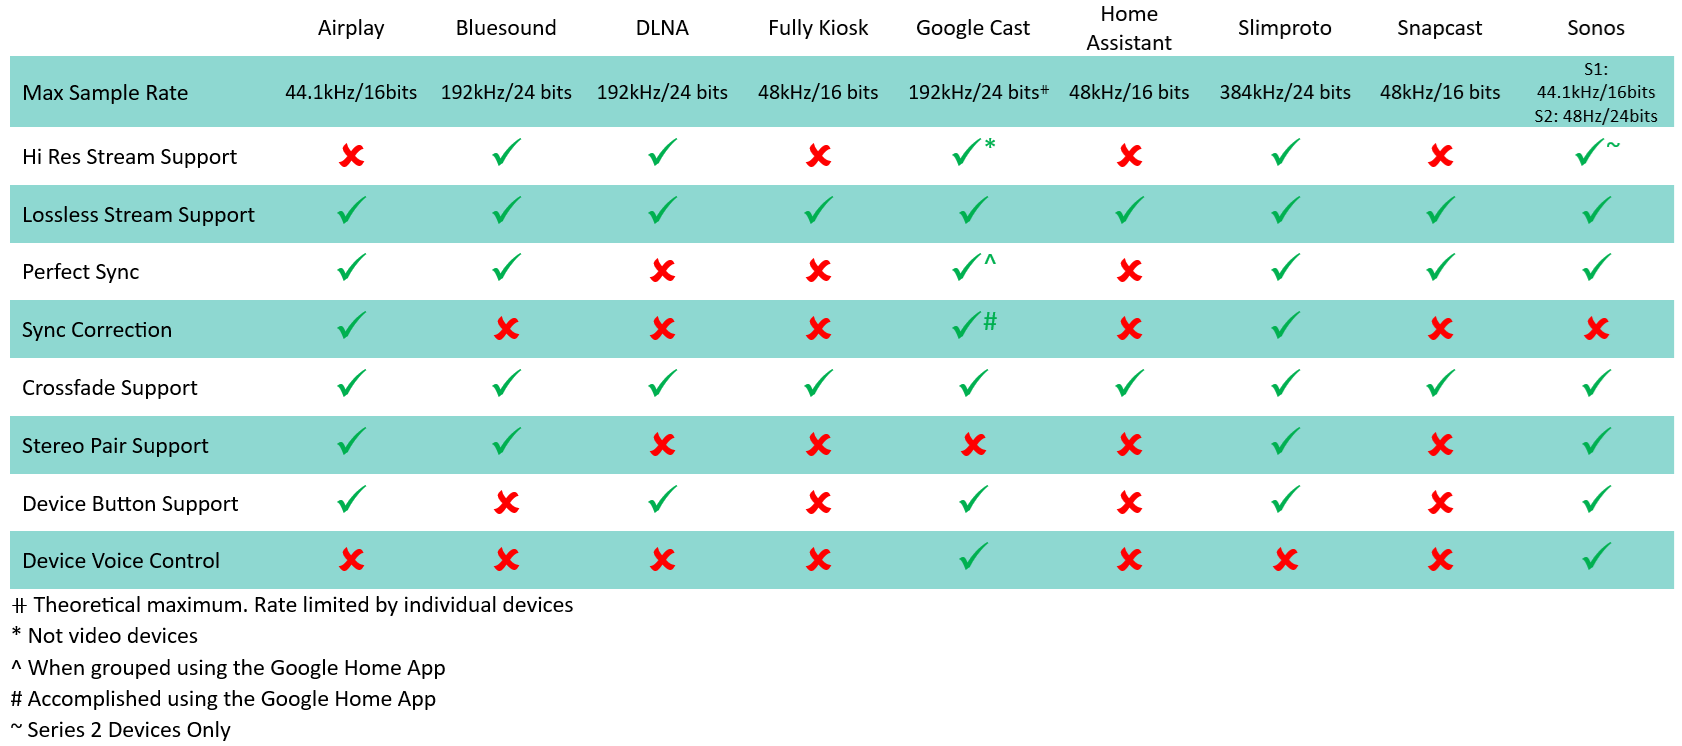
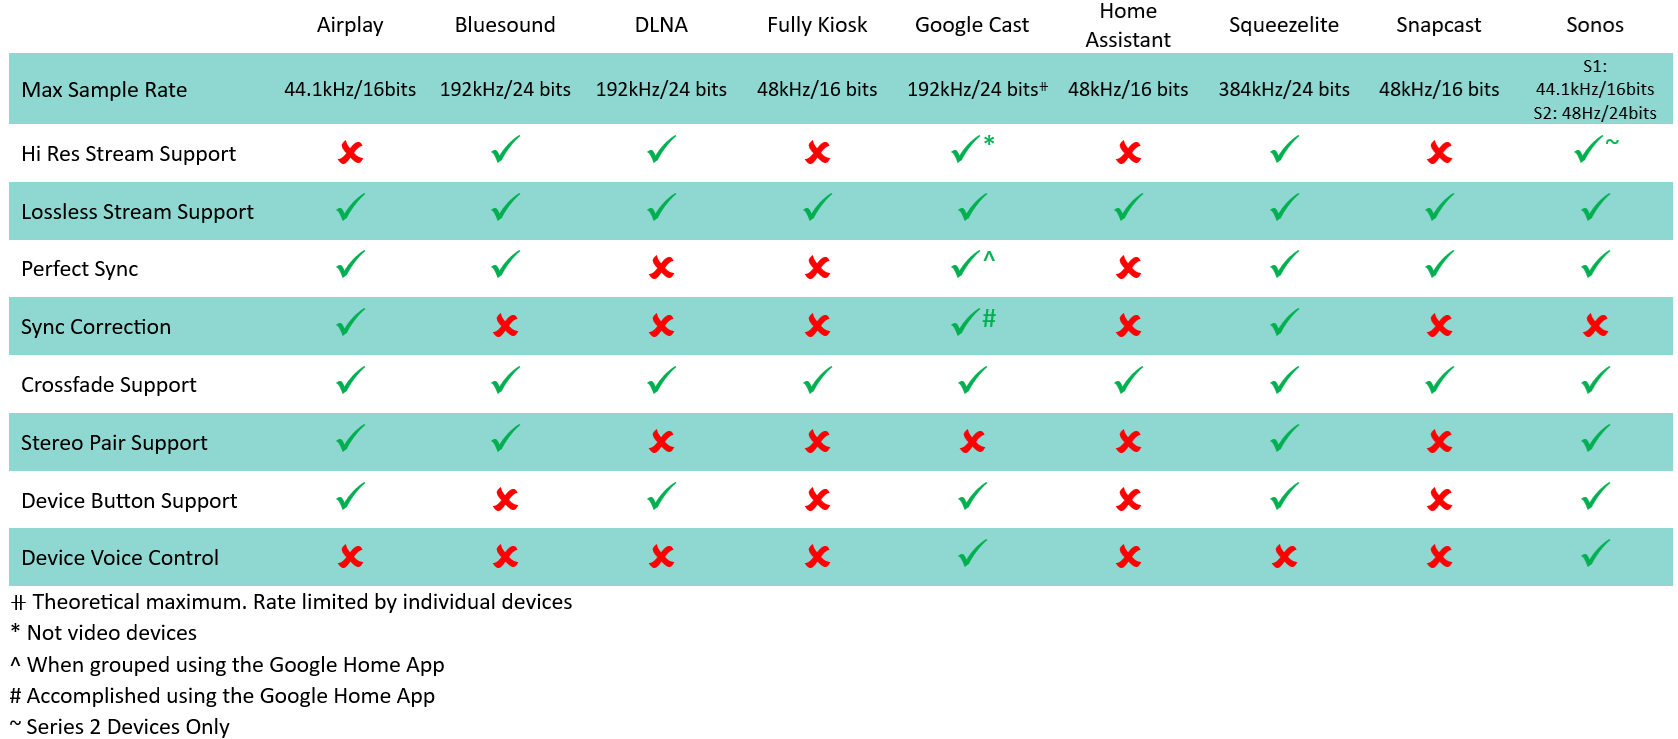
Squeezelite name change (#217)
* Name change

* Squeezelite name change

* Squeezelite name change

* Squeezelite name change

* Squeezelite name change

* Squeezelite name change

* Squeezelite name change

* Squeezelite name change

diff --git a/docs/faq/tech-info.md b/docs/faq/tech-info.md
@@ -34,7 +34,7 @@ The final part in the chain is that MA needs to send the audio to the player. By
 MA has 2 ways of enqueuing tracks to players:
 
 **NATIVE ENQUEUE SUPPORT**
-The player has native enqueue support so we tell it what the next track will be right before the current one ends. This is a special feature that not all players support. Its supported (and by default enabled) for example on Slimproto, Google Cast and Sonos players. Some DLNA players support it but others don't so we offer a player setting to enable it so a user can try and see if the player accepts it. The benefit of this is full support gapless playback and, in the case of Slimproto and Sonos, also crossfade. Full metadata will also be sent to the player which is currently playing.
+The player has native enqueue support so we tell it what the next track will be right before the current one ends. This is a special feature that not all players support. Its supported (and by default enabled) for example on Squeezelite, Google Cast and Sonos players. Some DLNA players support it but others don't so we offer a player setting to enable it so a user can try and see if the player accepts it. The benefit of this is full support gapless playback and, in the case of Squeezelite and Sonos, also crossfade. Full metadata will also be sent to the player which is currently playing.
 
 **FLOW MODE**
 As an alternative to native enqueuing we can also send one stream of audio to the player and let Music Assistant stitch the songs together (with gapless or crossfade). This mode is used by default for Airplay, Snapcast and any mediaplayers you import from Home Assistant, and flow mode will also be used by DLNA and Cast if crossfade gets enabled. The downside of this approach is that most players lose metadata display (on the speaker itself). Some DLNA players however support "icy metadata" which is what we send to inform what is playing. 
@@ -50,9 +50,9 @@ Audio sync between speakers is only possible if there is accurate knowledge of t
 1) Sending timestamped frames to each player - there is one master clock and audio frames are sent to each receiving device in a sync group including the timestamp. So each player will have knowledge when it should play each frame and it can drop or inject frames to keep in sync. This strategy is often used in the proprietary protocols such as Google Cast, Sonos, Roon RAAT, BluOS and even Apple Airplay (RAOP).
 This is by far the best (most precise) sync method because each player is responsible for sending the correct audio frames to the DAC (or digital transport).
 
-2) Server-side corrected sync. Each player is sent the audio stream from the centralized source and then the server keeps track of each player's latency and corrects it by pausing/forwarding, playing faster/slower or injecting frames. This is easier to implement because the only thing needed client-side is accurate progress reporting of the client (how many milliseconds it played) and the server contains all the centralized logic to keep the sync. This is used by, for example, slimproto (squeezebox) and snapcast.
+2) Server-side corrected sync. Each player is sent the audio stream from the centralized source and then the server keeps track of each player's latency and corrects it by pausing/forwarding, playing faster/slower or injecting frames. This is easier to implement because the only thing needed client-side is accurate progress reporting of the client (how many milliseconds it played) and the server contains all the centralized logic to keep the sync. This is used by, for example, Squeezelite and Snapcast.
 
-How well the time synchronisation works depends on multiple factors but often you will find that strategy 1 is superior to strategy 2 and/or strategy 2 needs tweaking to get it right. For instance on snapcast you may hear skipping (small disturbances to the sound while its adjusting) and slimproto works less optimally with wifi based devices due to changing player latency.
+How well the time synchronisation works depends on multiple factors but often you will find that strategy 1 is superior to strategy 2 and/or strategy 2 needs tweaking to get it right. For instance on Snapcast you may hear skipping (small disturbances to the sound while its adjusting) and Squeezelite works less optimally with WiFi based devices due to changing player latency.
 
 RECOMMENDATION: To have the best synced audio experiences of players, try to stick with one ecosystem and, if possible, choose one of the options that implement strategy 1 (proprietary protocol). 
 

diff --git a/docs/player-support/squeezelite.md b/docs/player-support/squeezelite.md
@@ -1,18 +1,18 @@
 # Squeezelite ![Preview image](../assets/icons/slim-icon.svg){ width=70 align=right }
 
-Music Assistant (partly) emulates a Logitech Media Server and has a full implementation of the Slim protocol (aka slimproto).
-This means you can use slimproto software players, which run on almost any hardware, including your own desktop OS and even ESP32 boards, directly with Music Assistant. There is some support for the original Logitech branded Squeezebox hardware players like the Radio and the Duet.
+Music Assistant (partly) emulates a Logitech Media Server and has a full implementation of the Slim Protocol (aka slimproto) in the form of support for [Squeezelite](https://en.wikipedia.org/wiki/Squeezelite) clients.
+This means you can use squeezelite software players, which run on almost any hardware, including your own desktop OS and even ESP32 boards, directly with Music Assistant. There is some support for the original Logitech branded Squeezebox hardware players like the Radio and the Duet.
 
 ## Features
 
-- Slimproto devices are auto detected in Music Assistant
-- Slimproto devices will play in sync
+- Squeezelite devices are auto detected in Music Assistant
+- Squeezelite devices will play in sync
 - Any physical control buttons on the device should be supported as long as [flow mode](../faq/tech-info.md/#track-queueing) is not enabled
 - The player settings allow configuration of stereo pairs of speakers
 
 ## Known Issues / Notes
 
-- The focus of this provider in MA is to support the use of software slimproto clients (e.g. [piCorePlayer](https://www.picoreplayer.org/)). Old Squeezebox hardware is reported to work although there are reported issues with grouping. The MA core team cannot afford to expend resources on making these devices work any better than they do now. PRs to enhance support, however, are welcomed to the [aioslimproto library](https://github.com/home-assistant-libs/aioslimproto) and/or the squeezelite provider in MA
-- Running LMS on the same server as MA with the MA slimproto provider enabled can have undesired effects
+- The focus of this provider in MA is to support the use of software Squeezelite clients (e.g. [piCorePlayer](https://www.picoreplayer.org/)). Old Squeezebox hardware is reported to work although there are reported issues with grouping. The MA core team cannot afford to expend resources on making these devices work any better than they do now. PRs to enhance support, however, are welcomed to the [aioslimproto library](https://github.com/home-assistant-libs/aioslimproto) and/or the squeezelite provider in MA
+- Running LMS on the same server as MA with the MA Squeezelite provider enabled can have undesired effects
 - Make sure that you do not have the "slimproto" integration running in Home Assistant
 - Ordinarily do not use queue flow mode unless using older Squeezebox hardware player that has issues transitioning. Enabling queue flow mode may solve playback issues however it might come with the side effect of disabling actual physical buttons and/or display of metadata on the device itself

diff --git a/docs/audiopipeline.md b/docs/audiopipeline.md
@@ -37,6 +37,6 @@ The view will expand as necessary to show all [grouped players](faq/groups.md). 
 
 A point to note in this example is the orange dot beside the third Output section label. Whilst no quality would have been lost due to the Output Limiter or [the upsampling to 48kHz](https://www.youtube.com/watch?v=tIIK2wuXHuY), the change to the [lossy MP3 codec](https://www.adobe.com/au/creativecloud/video/discover/best-audio-format.html) necessitates the indication that this is now only Low Quality.
 
-When a group of players have the same pipeline then the identical output stages will be collapsed with one player shown followed by a plus sign and the number of other players represented. Clicking on the information icon will expand the list as shown in the following image. Note that in the case of Slimproto or AirPlay a different output pipeline per player is possible, whilst with other player types such as Sonos or Snapcast, the leader determines the stream sent to all the children.
+When a group of players have the same pipeline then the identical output stages will be collapsed with one player shown followed by a plus sign and the number of other players represented. Clicking on the information icon will expand the list as shown in the following image. Note that in the case of Squeezelite or AirPlay a different output pipeline per player is possible, whilst with other player types such as Sonos or Snapcast, the leader determines the stream sent to all the children.
 
 ![image](assets/screenshots/audiopipeline-groups-collapsed.png){ width=500 }

diff --git a/docs/faq/stream-to.md b/docs/faq/stream-to.md
@@ -61,7 +61,7 @@ In general terms the protocols/devices that should give you minimum to no setup 
 -	Any device/speaker that supports [Airplay](https://en.wikipedia.org/wiki/AirPlay)
 -	Any device/speaker that supports the [Google Cast protocol](https://en.wikipedia.org/wiki/Google_Cast) (also known as cast builtin)
 -	[Squeezebox hardware](https://en.wikipedia.org/wiki/Squeezebox_(network_music_player))
--	Software squeezebox/slimproto based players (e.g. [squeezelite](https://sourceforge.net/projects/lmsclients/files/squeezelite/) )
+-	[Squeezelite](https://sourceforge.net/projects/lmsclients/files/squeezelite/) based players
 -	[Sonos](https://www.sonos.com/en-us/home)
 
 We don’t believe most people can hear the difference in sample rates above CD quality so AirPlay is highly recommended. It has a good sync protocol and is widely implemented in consumer devices. For most people they should consider what they already have and fit in with that (unless it’s DLNA then consider changing due to the quirks of some devices) and their budget.

diff --git a/docs/player-support/index.md b/docs/player-support/index.md
@@ -1,4 +1,4 @@
----
+![image](https://github.com/user-attachments/assets/451992e4-a5bd-4a42-b7da-65e993682154)---
 title: Player Support
 description: Information Relevant to all Player Providers 
 ---
@@ -32,7 +32,7 @@ All providers have the option to apply [Digital Signal Processing](https://en.wi
 
 The DSP option is found in the MA settings for each player which means that each player has its own independently configurable DSP settings.
 
-Individual player DSP settings will be used for playback to AirPlay, Slimproto and Universal groups. For all other group types DSP will be disabled.
+Individual player DSP settings will be used for playback to AirPlay, Squeezelite and Universal groups. For all other group types DSP will be disabled.
 
 The DSP path consists of an INPUT pre-amplifier for initial gain control, followed by optional audio filters that can be added between input and output (multiple times if desired). The following filters are available:
 

diff --git a/docs/integration/announcements.md b/docs/integration/announcements.md
@@ -55,7 +55,7 @@ If an announcement is sent to a player that is currently synced to another playe
 In all cases the playback should resume after the announcement.
 
 !!! note
-    If the announcement is sent to one player of a group, the playback needs to resume afterwards and for airplay and slimproto that will be noticeable
+    If the announcement is sent to one player of a group, the playback needs to resume afterwards and for AirPlay and Squeezelite that will be noticeable
 
 !!! note
     If the announcement is sent to one player of a group, and that player is the sync leader of a permanent Sync Group, then this will be treated the same as sending the request to the whole Sync Group. All players will play the announcement and the whole group will resume afterwards.

diff --git a/docs/companion-app.md b/docs/companion-app.md
@@ -32,7 +32,7 @@ When starting the app for the first time you are asked for some information abou
 
 Squeezelite comes embedded in the application. This allows playback of music to your computer. The player name will be the same as your computer name. You can change the name in Music Assistant settings. You can also toggle if you wish to enable squeezelite at all.
 
-To allow playback to the companion app you have to enable the slimproto provider in the Music Assistant settings.
+To allow playback to the companion app you have to enable the Squeezelite provider in the Music Assistant settings.
 
 ### [Discord Rich Presence](https://discord.com/developers/docs/rich-presence/how-to#so-what-is-it)
 
